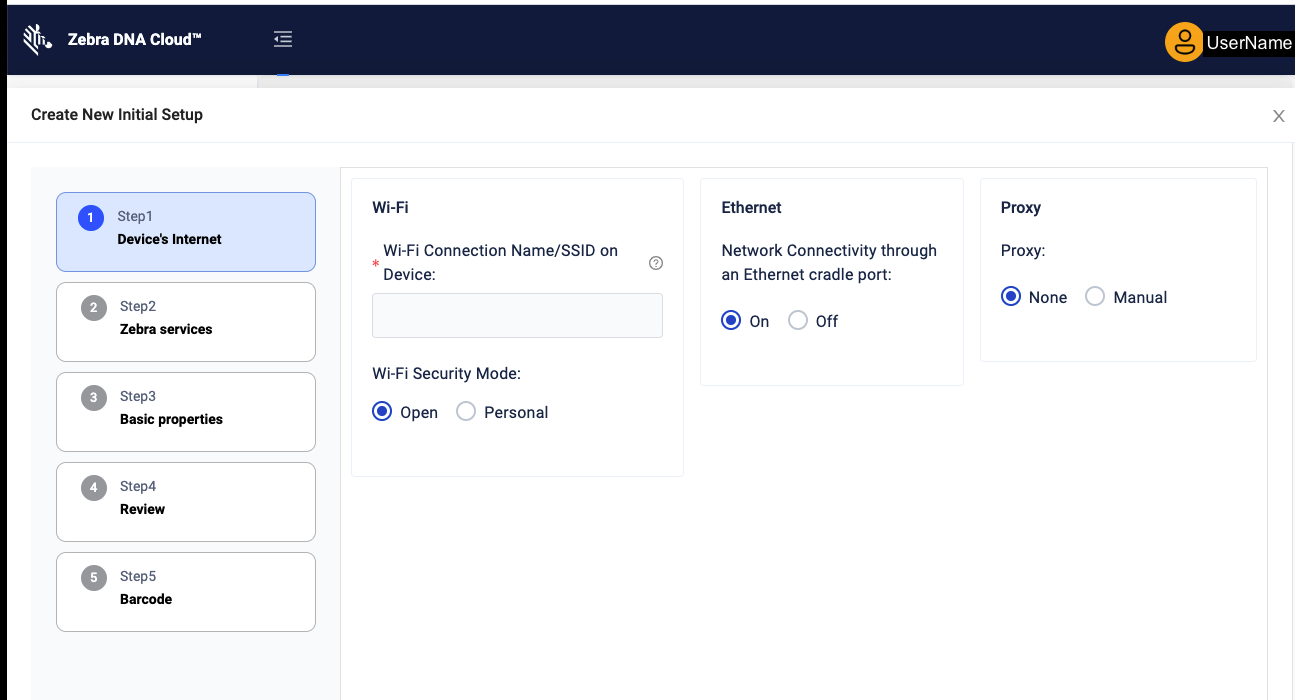
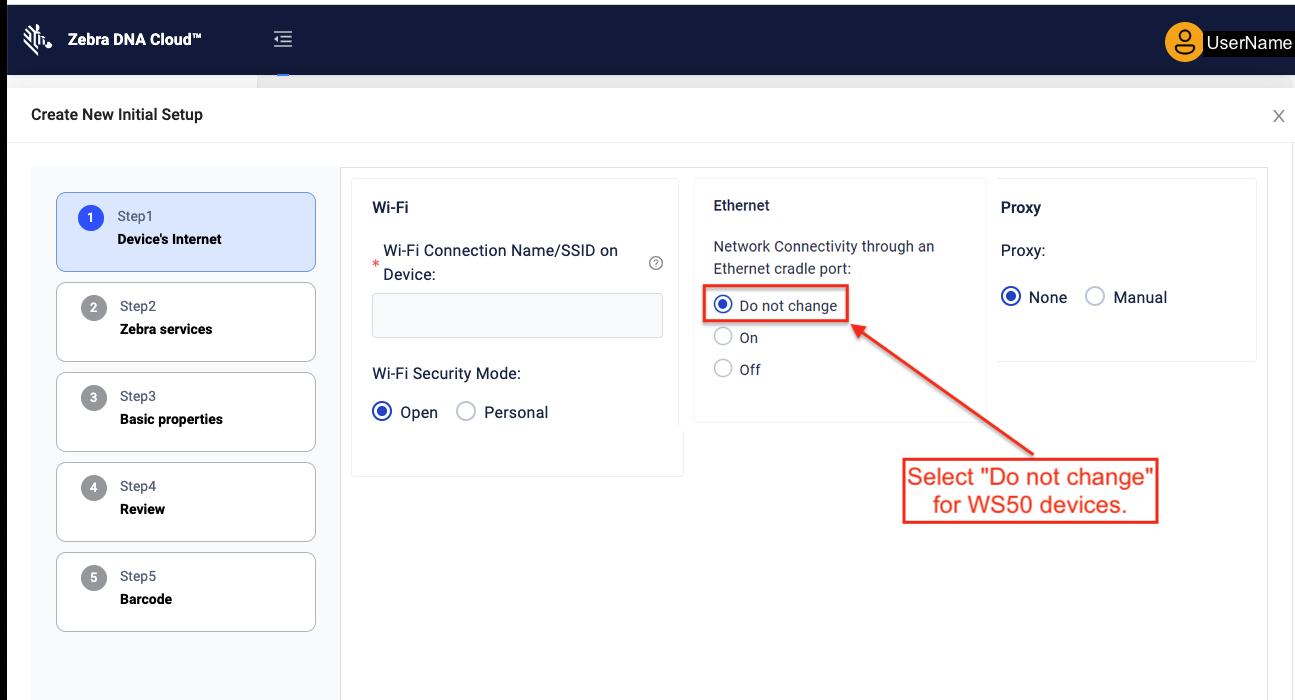
[TUT-66449, DLM-10990] zDNA updates, per eng

Changed region(s): [[0.5251, 0.27, 0.7413, 0.54], [0.6795, 0.57, 0.8958, 0.75], [0.7104, 0.54, 0.7413, 0.57]]

diff --git a/zebradna/1-0/usage/index.html b/zebradna/1-0/usage/index.html
@@ -90,7 +90,7 @@
                         </li>
                         <li>
                             <a href="/zebradna/1-0/faq">
-                                    FAQ
+                                    Known Issues
                             </a>
                         </li>
                         <li>
@@ -680,6 +680,149 @@ _Click image to enlarge; ESC to exit._
 <p>7. At login, <strong>select "Forgot Password"</strong> to generate an email with further instructions.</p>
 
 <p>8. Repeat this process for all Administrative Users. </p>
+
+<hr>
+
+<h2 id="androidupdates" class="anchor"><a class="heading-anchor" href="#androidupdates"><span></span></a>Android Updates</h2>
+
+<p><strong>The Android Updates function keeps enrolled devices up to date with the latest Android OS updates and security patches</strong>. Devices managed with this feature are subject to the behaviors listed below.</p>
+
+<ul>
+<li><strong>General Behavior</strong>
+
+
+<ul>
+<li><strong>Android Updates are applicable only on enrolled devices</strong>.</li>
+
+<li>For unenrolled devices, the only available Action is to Enroll.</li></ul>
+</li>
+
+<li><strong>Bulk Actions</strong>
+
+
+<ul>
+<li><strong>"Update" Action can be performed</strong> in bulk on devices of the <strong>same model number ONLY</strong>. </li>
+
+<li><strong>"Enroll" Action can be performed on dissimilar</strong> device models.</li>
+
+<li><strong>Enroll and Update Actions can be combined in a bulk operation</strong>, unenrolled devices are enrolled only; already enrolled devices are updated.</li></ul>
+</li>
+</ul>
+
+<hr>
+
+<h3 id="performanandroidupdate" class="anchor"><a class="heading-anchor" href="#performanandroidupdate"><span></span></a>Perform an Android Update</h3>
+
+<p><strong>1. Click on Android Updates</strong> to display the Device View: <br>
+<img alt="image" style="height:350px" src="android_update_01.PNG">
+<em>Click image to enlarge; ESC to exit.</em>
+<br></p>
+
+<h4 id="devicesupdatestatus" class="anchor"><a class="heading-anchor" href="#devicesupdatestatus"><span></span></a>Devices Update Status</h4>
+
+<ul>
+<li><strong>Up to date -</strong> Device has all the latest OS updates and security patches. No action is required. </li>
+
+<li><strong>New Available -</strong> Device does NOT have the latest OS updates and/or security patches. Click "Update to Latest" to upgrade.</li>
+
+<li><strong>Not Enrolled -</strong> LifeGuard Over the Air (OTA) servvice is NOT running on the device. Click "Enroll" to install.  </li>
+</ul>
+
+<hr>
+
+<p><strong>2. Click on the checkbox</strong> for one or more devices on which to perform an Action.<br>
+<i class="fa fa-exclamation-triangle" style="color:#FFA500;"></i> Updates can be performed on <strong>multiple devices ONLY of the same model number</strong>: 
+<img alt="image" style="height:350px" src="android_update_02.PNG">
+<em>Click image to enlarge; ESC to exit.</em>
+<br></p>
+
+<hr>
+
+<p><strong>3. Enter a Job Name (or use the auto-generated default), Source and Description</strong> for later identification of the Job: <br>
+<img alt="image" style="height:350px" src="android_update_04.PNG">
+<em>Click image to enlarge; ESC to exit.</em>
+<br></p>
+
+<hr>
+
+<p><strong>4. Review the contents of the Update</strong> to confirm that it's correct: <br>
+<img alt="image" style="height:350px" src="android_update_05.PNG">
+<em>Click image to enlarge; ESC to exit.</em>
+<br></p>
+
+<hr>
+
+<p><strong>5. Select a Schedule for performing the Update</strong>. For example, schedule during "off hours" to minimize worker dispuption.<br>
+Select "As soon as possible" to begin the Update immediately upon starting the job.<br>
+<i class="fa fa-exclamation-triangle" style="color:#FFA500;"></i> If setting an installation window, <strong>the "Start at" date must be EARLIER than the selected End Date</strong>.
+<img alt="image" style="height:350px" src="android_update_06a.PNG">
+<em>Click image to enlarge; ESC to exit.</em>
+<br></p>
+
+<hr>
+
+<p><strong>6. Select the Conditions under which the Update is to be performed</strong> and whether to allow the device user to postpone.<br>
+<i class="fa fa-exclamation-triangle" style="color:#FFA500;"></i> An Update begins only <strong>when ALL conditions are met</strong>. <br>
+<img alt="image" style="height:350px" src="android_update_07.PNG">
+<em>Click image to enlarge; ESC to exit.</em>
+<br></p>
+
+<hr>
+
+<p><strong>7. Review settings are configured as desired</strong>. If necessary, click "Edit" to modify.<br>
+<strong>When finished, click the "Start Job" button</strong>: <br>
+<img alt="image" style="height:350px" src="android_update_08.PNG">
+<em>Click image to enlarge; ESC to exit.</em>
+<br></p>
+
+<hr>
+
+<p><strong>8. The Deployment tab displays the status of all Android Update jobs</strong>: <br>
+<img alt="image" style="height:350px" src="android_update_09.PNG">
+<em>Click image to enlarge; ESC to exit.</em>
+<br></p>
+
+<h4 id="updatejobstatus" class="anchor"><a class="heading-anchor" href="#updatejobstatus"><span></span></a>Update Job Status</h4>
+
+<ul>
+<li><strong>Success (green) -</strong> Deployment to device(s) completed on device(s) as expected</li>
+
+<li><strong>Failed (red) -</strong> Deployment did not succeed, possibly because:
+
+
+<ul>
+<li>The Profile never reached the device</li>
+
+<li>One or more settings are not supported by the device(s)</li></ul>
+</li>
+
+<li><strong>In Progress (blue) -</strong> Deployment is pending on at least one device; no errors have occurred </li>
+
+<li><strong>Issues (yellow) -</strong> Partial success; one or more problems are preventing full deployment</li>
+
+<li><strong>Draft (black) -</strong> Profile is unfinished or awaiting deployment </li>
+
+<li><strong>Unknown -</strong> Status could not be determined, possibly because all devices have been removed from Profile</li>
+</ul>
+
+<hr>
+
+<p><strong>9. Click "Open" in the Action column to display the status of device(s) targeted by an individual Update job</strong>: <br>
+<img alt="image" style="height:350px" src="android_update_09a.PNG">
+<em>Click image to enlarge; ESC to exit.</em>
+<br></p>
+
+<h4 id="actions" class="anchor"><a class="heading-anchor" href="#actions"><span></span></a>Actions</h4>
+
+<ul>
+<li><strong>Open -</strong> Displays Update details of the deployment in that row</li>
+
+<li><strong>Cancel -</strong> Cancels an In-Progress Update (disabled after Update is completed)</li>
+
+<li><strong>Delete -</strong> Removes the Update from the deployment Profies list (available only when status is "Success," "Issue" or "Cancelled")</li>
+
+<li><strong>Reapply -</strong> Attempts to perform the Update again, usually after error remediation. </li>
+</ul>
 
 <hr>
 

diff --git a/zebradna/1-0/setup/index.html b/zebradna/1-0/setup/index.html
@@ -90,7 +90,7 @@
                         </li>
                         <li>
                             <a href="/zebradna/1-0/faq">
-                                    FAQ
+                                    Known Issues
                             </a>
                         </li>
                         <li>
@@ -397,7 +397,7 @@
 <br></p>
 
 <blockquote>
-  <p><i class="fa fa-exclamation-triangle" aria-hidden="true" style="color:#FFA500;"></i> If a link to zDNA Cloud does not appear, use Chrome to go to <a href="https://zdnacloud.zebra.com">zDNA Cloud</a>.</p>
+  <p><i class="fa fa-exclamation-triangle" aria-hidden="true" style="color:#FFA500;"></i> If a link to zDNA Cloud does not appear, point a Chrome browser to <a href="https://zdnacloud.zebra.com">zDNA Cloud</a>.</p>
 </blockquote>
 
 <p><strong>7</strong>. For first-time setup, <strong>log in as Tenant Owner</strong> using the Zebra SSO credentials.<br>
@@ -443,7 +443,8 @@ Uninstall zDNA client, purges device device from the system. Settings remain.
 
 <hr>
 
-<p><strong>2. Enter the Wi-Fi settings</strong> for the device in its intended location.<br>
+<p><strong>2. Enter the Wi-Fi and Proxy settings</strong> for the device in its intended location.<br>
+<i class="fa fa-exclamation-triangle" style="color:#FFA500;"></i> <strong>Always select "Do not change" for WS50 devices</strong>.<br>
 <strong>Click "Next"</strong> button when finished.
 <img alt="image" style="height:350px" src="initial_02.png">
 <em>Click image to enlarge; ESC to exit.</em>
@@ -451,8 +452,8 @@ Uninstall zDNA client, purges device device from the system. Settings remain.
 
 <hr>
 
-<p><strong>3. Leave "LifeGuard Over the Air" box CHECKED (default) to enroll device(s)</strong> in zDNA Cloud system.<br> <br>
-<i class="fa fa-exclamation-triangle" aria-hidden="true" style="color:#FFA500;"></i> Uncheck box <strong><u>ONLY</u> if Zebra's system is NOT to be used to send updates and security patches to the device</strong>.<br>
+<p><strong>3. Leave "LifeGuard Over the Air" box CHECKED (default) to enroll device(s)</strong> in zDNA Cloud system. 
+<i class="fa fa-exclamation-circle" style="color:#FF0000;"></i> <strong>Unchecking this box <u>PREVENTS</u> the device from being maintained using the Android Updates feature</strong>.<br>
 <strong>Click "Next"</strong> button when finished.
 <img alt="image" style="height:350px" src="initial_02a.png">
 <em>Click image to enlarge; ESC to exit.</em>

diff --git a/zebradna/1-0/faq/index.html b/zebradna/1-0/faq/index.html
@@ -90,7 +90,7 @@
                         </li>
                         <li>
                             <a href="/zebradna/1-0/faq">
-                                    FAQ
+                                    Known Issues
                             </a>
                         </li>
                         <li>
@@ -224,11 +224,15 @@
 
                                         <p></p><h2 id="overview" class="anchor"><a class="heading-anchor" href="#overview"><span></span></a>Overview</h2>
 
-<h3 id="underconstruction" class="anchor"><a class="heading-anchor" href="#underconstruction"><span></span></a><code>UndER COnsTRuctioN</code></h3>
+<!-- 
+### `UndER COnsTRuctioN`
+-->
 
-<h4 id="__" class="anchor"><a class="heading-anchor" href="#__"><span></span></a><code>¯\_(ツ)_/¯</code></h4>
+<h3 id="__" class="anchor"><a class="heading-anchor" href="#__"><span></span></a><code>¯\_(ツ)_/¯</code></h3>
 
 <p>When questions from the user community arrive, they'll go here along with the answers.  </p>
+
+<p>Send questions, comments and suggestions to <a href="mailto:zdnasupport@zebra.com">zdnasupport@zebra.com</a> </p>
 
 <!-- 
 ###Q: What is the application name of the ZDS agent on the device?

diff --git a/zebradna/1-0/about/index.html b/zebradna/1-0/about/index.html
@@ -90,7 +90,7 @@
                         </li>
                         <li>
                             <a href="/zebradna/1-0/faq">
-                                    FAQ
+                                    Known Issues
                             </a>
                         </li>
                         <li>

diff --git a/zebradna/1-0/licensing/index.html b/zebradna/1-0/licensing/index.html
@@ -90,7 +90,7 @@
                         </li>
                         <li>
                             <a href="/zebradna/1-0/faq">
-                                    FAQ
+                                    Known Issues
                             </a>
                         </li>
                         <li>

diff --git a/zebradna/1-0/search/index.html b/zebradna/1-0/search/index.html
@@ -90,7 +90,7 @@
                         </li>
                         <li>
                             <a href="/zebradna/1-0/faq">
-                                    FAQ
+                                    Known Issues
                             </a>
                         </li>
                         <li>
